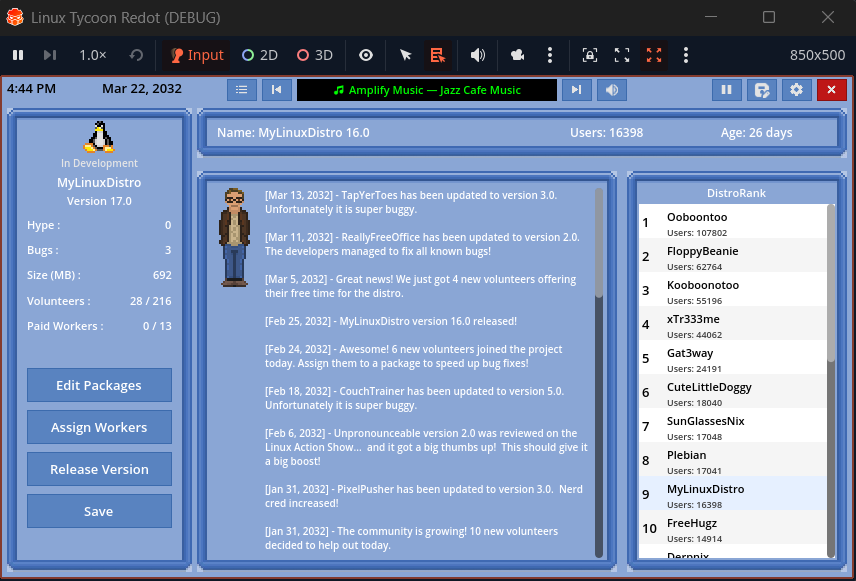
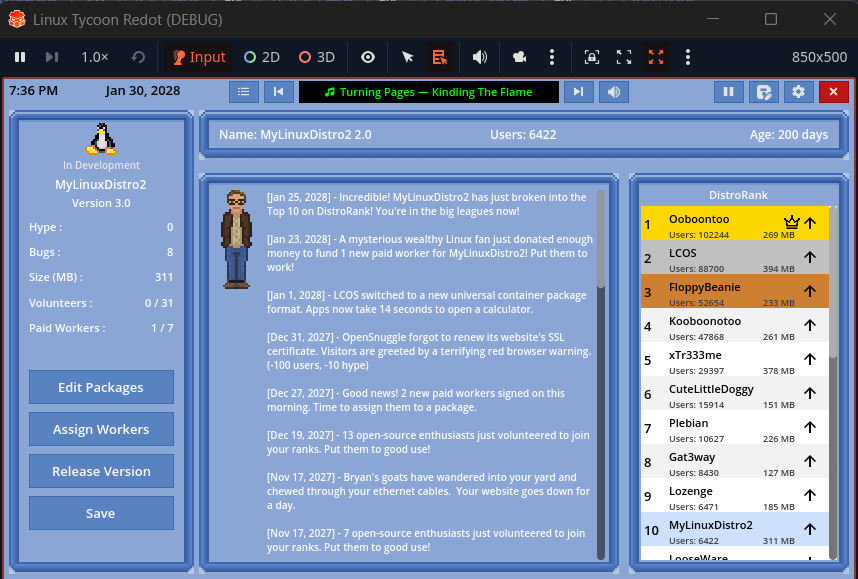
More ideas, screenshots and new README screenies

diff --git a/TODO.md b/TODO.md
@@ -22,6 +22,8 @@ These are things I want to achieve before this game hits v1.0 and I am confident
 * Add some left and right margin on the Overview window to space it out better..
 * Show the competition's Size next to Users in DistroRank - this is buggy and some distros have 0 MB and yet a growing userbase
 * More packages, especially for when the 4.7GB DVD limit is reached.
+* Add the Rank to the Overview window on the right side after Age:.
+* How about in DistroRank - Users:, Size: with mini-arrows next to them. And right-align the crown fully at the top?
 
 ## Long-term
 * Dedicated GitHub website - would be cool if it had the same blue window design using Hugo or something.
